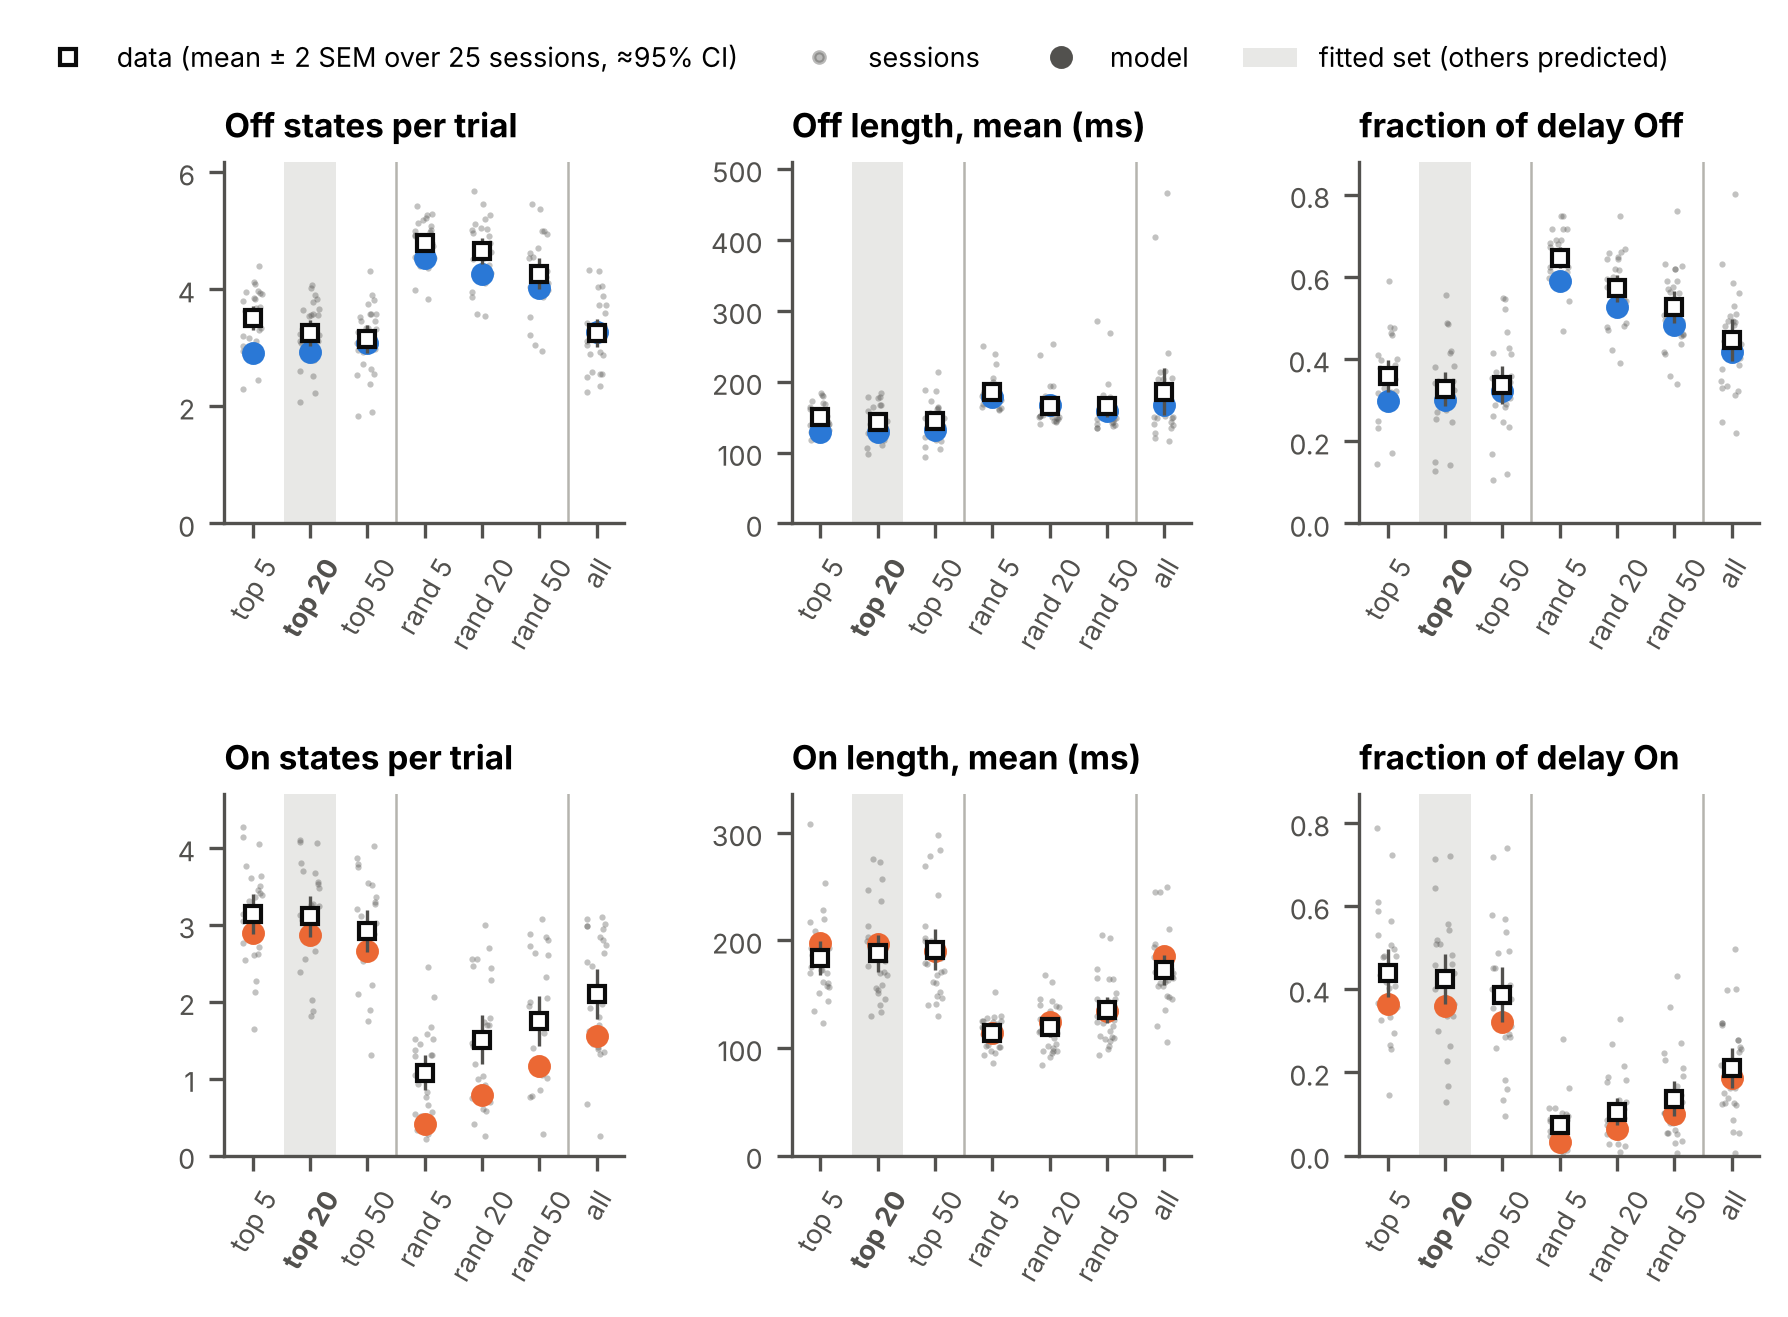
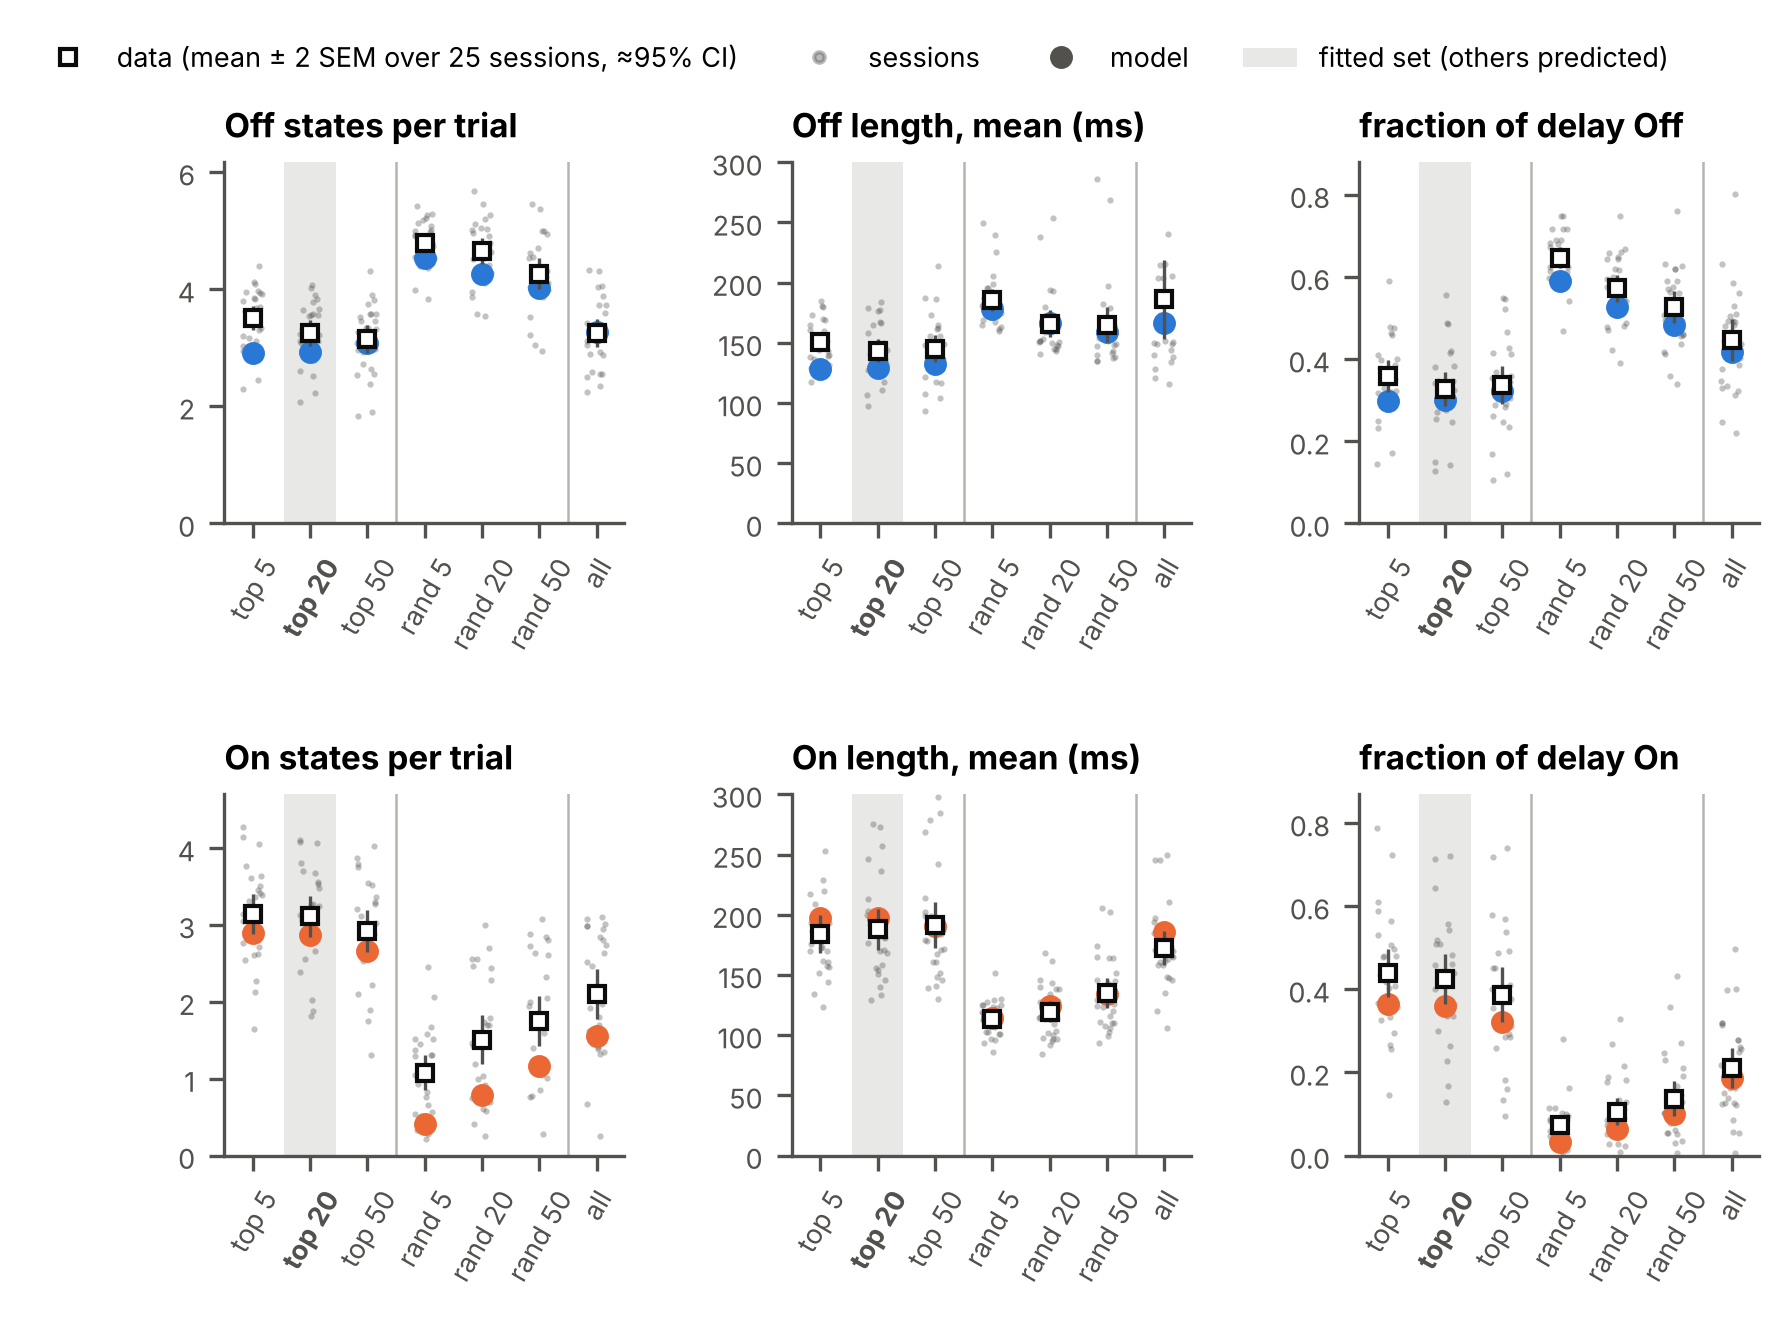
Figure 2: Off and On length axes both 0-300 ms
Claude-Session: https://claude.ai/code/session_01DWA8oLxpZgubPZ4A6kb3Lh

diff --git a/paper_model/make_figures.py b/paper_model/make_figures.py
@@ -170,7 +170,8 @@ def figure2(out, summ, path):
         j = R.SETS.index(M.FIT_SET)
         a.axvspan(j - 0.45, j + 0.45, color=MUTED, alpha=0.3, lw=0, zorder=0)    # the set the dynamics were fitted to
         a.get_xticklabels()[j].set_fontweight('bold')
-        a.set_ylim(0, a.get_ylim()[1] * 1.05); a.tick_params(labelsize=6.5)
+        a.set_ylim(0, 300 if mk in ('off_mean', 'on_mean') else a.get_ylim()[1] * 1.05)   # lengths: same axis, a few sessions clipped
+        a.tick_params(labelsize=6.5)
     fig.legend(handles=[Line2D([], [], ls='', marker='s', ms=4, mfc='white', mec=INK, label='data (mean ± 2 SEM over 25 sessions, ≈95% CI)'),
                         Line2D([], [], ls='', marker='.', ms=5, color=INK2, alpha=0.4, label='sessions'),
                         Line2D([], [], ls='', marker='o', ms=4.5, color=INK2, label='model'),
